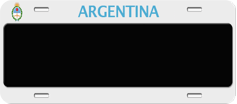
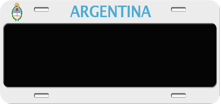
Show legacy plates larger and shorter, with tighter characters and a wider gap between letters and digits

diff --git a/src/components/VehiclePlate.tsx b/src/components/VehiclePlate.tsx
@@ -18,12 +18,13 @@ const BIKE_IMAGE_HEIGHT = 679;
 const BIKE_TEXT_TOP = 138 / BIKE_IMAGE_HEIGHT;
 const BIKE_TEXT_HEIGHT = (658 - 138) / BIKE_IMAGE_HEIGHT;
 // The modern plate PNG is 322x104 (Mercosur plates are 400x130 mm, same proportion). The
-// legacy one is 237x104: real pre-2016 plates are 294x129 mm, so datacar's original
-// 322px-wide graphic was narrowed to that proportion by removing plain strips between its
-// details (shield, bolt slots and "ARGENTINA" kept intact). Both are 104px tall, so the
+// legacy one is 221x104: datacar's original 322px-wide graphic was narrowed by removing
+// plain strips between its details (shield, bolt slots and "ARGENTINA" kept intact) --
+// first to the real pre-2016 plate's proportion (294x129 mm, 237px), then a bit more,
+// because at that length it read too long in the app. Both are 104px tall, so the
 // text-window offsets below apply to either.
 const PLATE_IMAGE_WIDTH = 322;
-const LEGACY_PLATE_IMAGE_WIDTH = 237;
+const LEGACY_PLATE_IMAGE_WIDTH = 221;
 const PLATE_IMAGE_HEIGHT = 104;
 
 // GL-Nummernschild-Mtl ("FE-Mittelschrift", the real German/European plate typeface
@@ -43,9 +44,9 @@ const LEGACY_CAP_FILL = 0.7;
 // of trusting each platform's text centering the capitals are placed by these numbers.
 const LEGACY_ASCENT_PER_EM = 1.135;
 const LEGACY_CAP_HEIGHT_PER_EM = 0.688;
-// The legacy plate's black band, measured on the 237x104 image: columns 4..231, rows
+// The legacy plate's black band, measured on the 221x104 image: columns 4..215, rows
 // 24..86 -- its center is where the capitals' center goes.
-const LEGACY_BAND_CENTER_X = 118 / 237;
+const LEGACY_BAND_CENTER_X = 109.5 / 221;
 const LEGACY_BAND_CENTER_Y = 55.5 / 104;
 const LEGACY_BAND_HEIGHT = 62 / 104;
 // Pre-2016 motorcycle plate (237x216): built from the legacy car plate's own pieces -- its
@@ -56,11 +57,19 @@ const LEGACY_BAND_HEIGHT = 62 / 104;
 // 51..192. The domain goes on two lines -- digits on top, letters below -- each line's
 // capitals ~40% of the band's height, centered at 26% and 75% of it, as on the real plate.
 const LEGACY_BIKE_PLATE_BG = require('../../assets/plates/ar-legacy-bike-plate.png');
+const LEGACY_BIKE_IMAGE_WIDTH = 237;
 const LEGACY_BIKE_IMAGE_HEIGHT = 216;
+// Its black band spans columns 10..226.
+const LEGACY_BIKE_BAND_CENTER_X = 118 / 237;
 const LEGACY_BIKE_BAND_TOP = 51 / 216;
 const LEGACY_BIKE_BAND_HEIGHT = 142 / 216;
 const LEGACY_BIKE_CAP_FILL = 0.4;
 const LEGACY_BIKE_LINE_CENTERS = [0.26, 0.75];
+// The pre-2016 plates (car and motorcycle) are drawn this much bigger than the size they'd
+// otherwise share with the modern ones: being narrower, they read small next to them.
+// Everything on them (lettering, spacing) scales with their height, so the domain grows
+// in proportion. They still fit inside a car plate's width.
+const LEGACY_SCALE = 1.2;
 
 // The plate images and fonts, loaded once for the whole app. Until they are, a plate keeps
 // its place but shows nothing -- otherwise the lettering pops in first and the plate image
@@ -138,8 +147,9 @@ function PlateBackground({ source, style, children }: {
 const backgroundStyles = StyleSheet.create({
   hidden: { opacity: 0 },
 });
-// An en space rather than two spaces: the web collapses consecutive spaces into one.
-const LEGACY_GROUP_GAP = '\u2002';
+// An en space plus a thin space rather than plain spaces (the web collapses consecutive
+// spaces into one): a wider gap between the letters and the digits, as on the real plate.
+const LEGACY_GROUP_GAP = '\u2002\u2009';
 
 // Cars: ABC123 (pre-2016) / AB123CD (Mercosur, since 2016). Motorcycles use their own two
 // formats, same two eras, one digit/letter shorter on one side: 123ABC (pre-2016) /
@@ -227,8 +237,8 @@ export function VehiclePlate({ plate, size = 'large', align = 'center' }: Vehicl
   // Every plate is laid out in the modern plate's footprint (slotWidth), so whatever sits
   // next to it in a list starts at the same place; the narrower legacy plate is centered.
   const slotWidth = large ? 220 : 140;
-  const height = Math.round(slotWidth * (PLATE_IMAGE_HEIGHT / PLATE_IMAGE_WIDTH));
   const isOldFormat = isOldFormatPlate(clean);
+  const height = Math.round(slotWidth * (PLATE_IMAGE_HEIGHT / PLATE_IMAGE_WIDTH) * (isOldFormat ? LEGACY_SCALE : 1));
   const plateWidth = isOldFormat ? Math.round(height * (LEGACY_PLATE_IMAGE_WIDTH / PLATE_IMAGE_HEIGHT)) : slotWidth;
 
   // Modern plate: the text window is its white lettering area, measured on the 322x104
@@ -273,9 +283,10 @@ export function VehiclePlate({ plate, size = 'large', align = 'center' }: Vehicl
           <LegacyPlateText
             text={formatPlate(plate).replace(GROUP_GAP, LEGACY_GROUP_GAP)}
             plateWidth={plateWidth}
+            bandCenterX={LEGACY_BAND_CENTER_X}
             centerY={height * LEGACY_BAND_CENTER_Y}
             capHeight={height * LEGACY_BAND_HEIGHT * LEGACY_CAP_FILL}
-            letterSpacing={Math.round(height * 0.03)}
+            letterSpacing={height * 0.012}
             fontLoaded={fontLoaded}
           />
         ) : (
@@ -371,6 +382,7 @@ function MercosurBikePlate({
 function LegacyPlateText({
   text,
   plateWidth,
+  bandCenterX,
   centerY,
   capHeight,
   letterSpacing,
@@ -378,6 +390,8 @@ function LegacyPlateText({
 }: {
   text: string;
   plateWidth: number;
+  /** The black band's horizontal center, as a fraction of the plate's width. */
+  bandCenterX: number;
   centerY: number;
   capHeight: number;
   letterSpacing: number;
@@ -403,7 +417,7 @@ function LegacyPlateText({
       top: centerY - capCenterOffset,
       // Centered on the band's own center (not the image's), and letterSpacing is also
       // added after the last character, so the text is shifted right by half of it.
-      left: plateWidth * LEGACY_BAND_CENTER_X * 2 - plateWidth + letterSpacing,
+      left: plateWidth * bandCenterX * 2 - plateWidth + letterSpacing,
       right: 0,
       textAlign: 'center',
       color: '#fafafa',
@@ -437,8 +451,8 @@ function LegacyBikePlate({
 }) {
   const carWidth = size === 'large' ? 220 : 140;
   const carHeight = Math.round(carWidth * (PLATE_IMAGE_HEIGHT / PLATE_IMAGE_WIDTH));
-  const height = Math.round(carHeight * 1.35);
-  const width = Math.round(height * (LEGACY_PLATE_IMAGE_WIDTH / LEGACY_BIKE_IMAGE_HEIGHT));
+  const height = Math.round(carHeight * 1.35 * LEGACY_SCALE);
+  const width = Math.round(height * (LEGACY_BIKE_IMAGE_WIDTH / LEGACY_BIKE_IMAGE_HEIGHT));
   const bandTop = height * LEGACY_BIKE_BAND_TOP;
   const bandHeight = height * LEGACY_BIKE_BAND_HEIGHT;
   const letterSpacing = Math.round(height * 0.02);
@@ -456,6 +470,7 @@ function LegacyBikePlate({
             key={line + index}
             text={line}
             plateWidth={width}
+            bandCenterX={LEGACY_BIKE_BAND_CENTER_X}
             centerY={bandTop + bandHeight * LEGACY_BIKE_LINE_CENTERS[index]}
             capHeight={bandHeight * LEGACY_BIKE_CAP_FILL}
             letterSpacing={letterSpacing}
